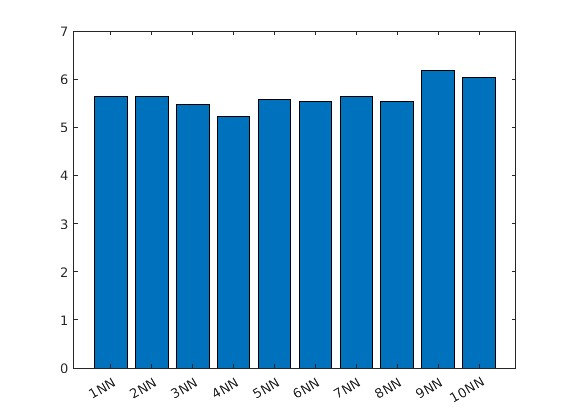
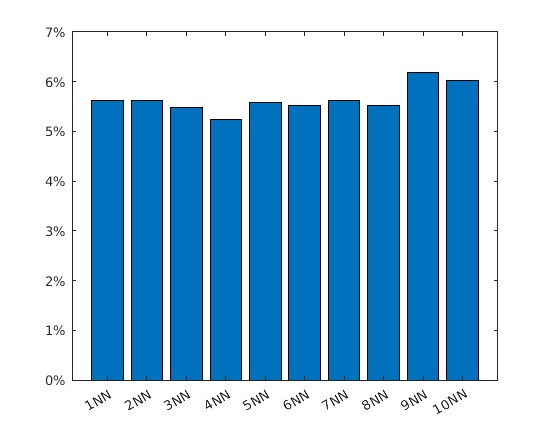
final version

Changed region(s): [[0.0618, 0.0581, 0.8964, 0.9879], [0.7418, 0.1453, 0.8036, 0.1743]]

diff --git a/projekt.m b/projekt.m
@@ -1,3 +1,5 @@
+%% Setup
+
 load("uspsDigits.mat")
 
 % Reshape the training data into a 256 by 7921 matrix 
@@ -8,36 +10,72 @@ TrainVectors = reshape(trainDigits, [256, 7291]);
 % where every column represents a number
 TestVectors = reshape(testDigits, [256, 2007]);
 
-% Nearest Neighbour
+%% k-Nearest Neighbour
 
 itterations = 10;
-nn_guesses = nearest_neighbour(TestVectors, TrainVectors, trainAns, itterations);
+nn_guesses = zeros(size(TestVectors, 2), itterations);
 
-nn_rates = zeros(itterations, 1);
-nn_labels = strings(itterations, 1);
-for i = 1:itterations 
-    nn_rates(i) = sum(nn_guesses(:,i)~=testAns) / size(TestVectors, 2);
-    nn_labels(i) = [num2str(i),'NN'];
+for i = 1:itterations
+    nn_guesses(:, i) = k_nearest_neighbour(TestVectors, TrainVectors, trainAns, i);
 end
- 
+
+%% Centroid
+
+[ncc_guesses, mean_vectors] = nearest_centroid_classifier(TestVectors, TrainVectors, trainAns);
+
+%% Bar plot k-NN
+
+nn_labels = strings(itterations, 1);
+nn_rates = zeros(itterations, 1);
+
+for i = 1:itterations
+    nn_labels(i) = [num2str(i),'NN'];
+    nn_guesses_i = nn_guesses(:, i);
+
+    nn_incorrect = nn_guesses_i~=testAns;
+    nn_rates(i) = sum(nn_incorrect(:)) / size(testAns, 1);
+end
+
 nn_best = find(nn_rates==min(nn_rates));
-
-% Centroid
-
-ncc_guesses = nearest_centroid_classifier(TestVectors, TrainVectors, trainAns);
-ncc_rates = sum(ncc_guesses~=testAns) / size(TestVectors, 2);
-
-ncc_labels = {'NN', 'NCC'};
-
-% Bar plot
+nn_best_guesses = nn_guesses(:, nn_best);
 
 figure('Name', 'Error Rate for K Nearest Neighbour');
 bar(reordercats(categorical(nn_labels), nn_labels), nn_rates * 100);
+ytickformat('percentage');
 
+%% Bar plot 4NN vs NCC
+
+nn_rate = zeros(10, 1);
+ncc_rate = zeros(10, 1);
+
+for i = 0:9
+    testAns_i = find(testAns==i);
+    
+    nn_incorrect = nn_best_guesses(testAns_i)~=i;
+    ncc_incorrect = ncc_guesses(testAns_i)~=i;
+
+    nn_rate(i + 1) = sum(nn_incorrect(:)) / size(testAns_i, 1);
+    ncc_rate(i + 1) = sum(ncc_incorrect(:)) / size(testAns_i, 1);
+
+end
+   
 figure('Name', 'Error Rate Nearest Neighbour and Nearest Centroid Classifier');
-bar(reordercats(categorical(ncc_labels), ncc_labels), [nn_rates(nn_best) * 100, ncc_rates * 100]);
+bar(0:9, [nn_rate * 100, ncc_rate * 100]);
+ytickformat('percentage');
+legend('4-NN', 'NCC');
 
-% Examples
+%% Time
+
+time = timeit(@() k_nearest_neighbour(TestVectors, TrainVectors, trainAns, 1));
+disp(['1NN Time: ', num2str(time)]);
+
+time = timeit(@() k_nearest_neighbour(TestVectors, TrainVectors, trainAns, nn_best));
+disp([num2str(nn_best), 'NN Time: ', num2str(time)]);
+
+time = timeit(@() nearest_centroid_classifier(TestVectors, TrainVectors, trainAns));
+disp(['NCC Time: ', num2str(time)]);
+
+%% Examples
 
 nn_wrong = find(nn_guesses(:,nn_best)~=testAns);
 nn_wrong_threes = find(testAns(nn_wrong)==3);
@@ -77,4 +115,10 @@ sgtitle('Nearest Centroid Classifier', 'FontSize', 20);
 for i = 1:4
     subplot(2,2,i);
     ima(testDigits(:, :, ncc_correct(ncc_correct_threes(i))));
+end
+
+figure('Name', 'Nearest Centroid Classifier Mean Vectors');
+for i = 1:10
+    subplot(2,5, i);
+    ima(reshape(mean_vectors(:, i), [16, 16]));
 end

diff --git a/nearest_neighbour.m b/nearest_neighbour.m
@@ -1,37 +1,12 @@
-function[guesses]=nearest_neighbour(TestVectors, TrainVectors, trainAns, itterations)
-    guesses = zeros(size(TestVectors, 2), itterations);
+function[guesses]=nearest_neighbour(TestVectors, TrainVectors, trainAns)
+    guesses = zeros(size(TestVectors, 2), 1);
 
     for i = 1:size(TestVectors, 2) 
-        % Calculate difference between the train vectors and the test vector
-        Difference = TrainVectors - TestVectors(:,i);
-        
-        % Calculate the dot product of every column in the matrix (c1 ⋅ c1)
-        Norm = vecnorm(Difference); 
-    
-        for k = 1:itterations
-            guesses(i, k) = find_nearest(Norm, trainAns, k);
-        end
+        Norm = vecnorm(TrainVectors - TestVectors(:,i)); 
+        guesses(i) = find_nearest(Norm, trainAns);
     end
 end
 
-function[Guess]=find_nearest(Norm, trainAns, k)
-    % Get the index of the smallest k values in the list of dot products
-    % and find their asociated values in the answer sheet
-    Min = mink(Norm, k);
-    Nearest = zeros(k,1);
-    for i = 1:k
-        Nearest(i) = trainAns(Norm==Min(i));
-    end
-    
-    % Check if there is a single most common digit.
-    % If not, take the nearest neighbour.
-    Frequency = accumarray(Nearest+1,1);
-    MostFrequent = find(Frequency==max(Frequency)) - 1;
-    
-    for i = 1:k
-        if ismember(Nearest(i), MostFrequent)
-            Guess = Nearest(i);
-            return;
-        end
-    end
+function[Guess]=find_nearest(Norm, trainAns)
+    Guess = trainAns(Norm==min(Norm));
 end

diff --git a/nearest_centroid_classifier.m b/nearest_centroid_classifier.m
@@ -1,25 +1,17 @@
-function[guesses]=nearest_centroid_classifier(TestVectors, TrainVectors, trainAns)
-    % Calculate Mean vectors
-    MeanVectors = zeros(256, 10);
-    figure('Name', 'Nearest Centroid Classifier Mean Vectors');
+function[guesses, mean_vectors]=nearest_centroid_classifier(TestVectors, TrainVectors, trainAns)
+    
+    mean_vectors = zeros(256, 10);
     for i = 1:10
-        MeanVectors(:,i) = mean(TrainVectors(:,trainAns == (i - 1)), 2);
-        subplot(2,5, i);
-        ima(reshape(MeanVectors(:, i), [16, 16]));
+        mean_vectors(:,i) = mean(TrainVectors(:,trainAns == (i - 1)), 2);
     end
 
     guesses = zeros(size(TestVectors, 2), 1);
     for i = 1:size(TestVectors, 2)     
-        guesses(i) = find_nearest(TestVectors(:,i), MeanVectors);
+        Norm = vecnorm(mean_vectors - TestVectors(:,i)); 
+        guesses(i) = find_nearest(Norm);
     end
 end
 
-function[Guess]=find_nearest(TestVector, MeanVectors)
-    % Calculate difference between the train vectors and the test vector
-    Difference = MeanVectors - TestVector;
-    
-    % Calculate the dot product of every column in the matrix (c1 ⋅ c1)
-    Norm = vecnorm(Difference); 
-    
+function[Guess]=find_nearest(Norm)
     Guess = find(Norm==min(Norm)) - 1;
 end

diff --git a/k_nearest_neighbour.m b/k_nearest_neighbour.m
@@ -1,0 +1,26 @@
+function[guesses]=k_nearest_neighbour(TestVectors, TrainVectors, trainAns, k)
+
+    guesses = zeros(size(TestVectors, 2), 1);
+    for i = 1:size(TestVectors, 2) 
+        Norm = vecnorm(TrainVectors - TestVectors(:,i)); 
+        guesses(i) = find_nearest(Norm, trainAns, k);
+    end
+end
+
+function[Guess]=find_nearest(Norm, trainAns, k)
+    Min = mink(Norm, k);
+    Nearest = zeros(k,1);
+    for i = 1:k
+        Nearest(i) = trainAns(Norm==Min(i));
+    end
+    
+    Frequency = accumarray(Nearest+1,1);
+    MostFrequent = find(Frequency==max(Frequency)) - 1;
+    
+    for i = 1:k
+        if ismember(Nearest(i), MostFrequent)
+            Guess = Nearest(i);
+            return;
+        end
+    end
+end
